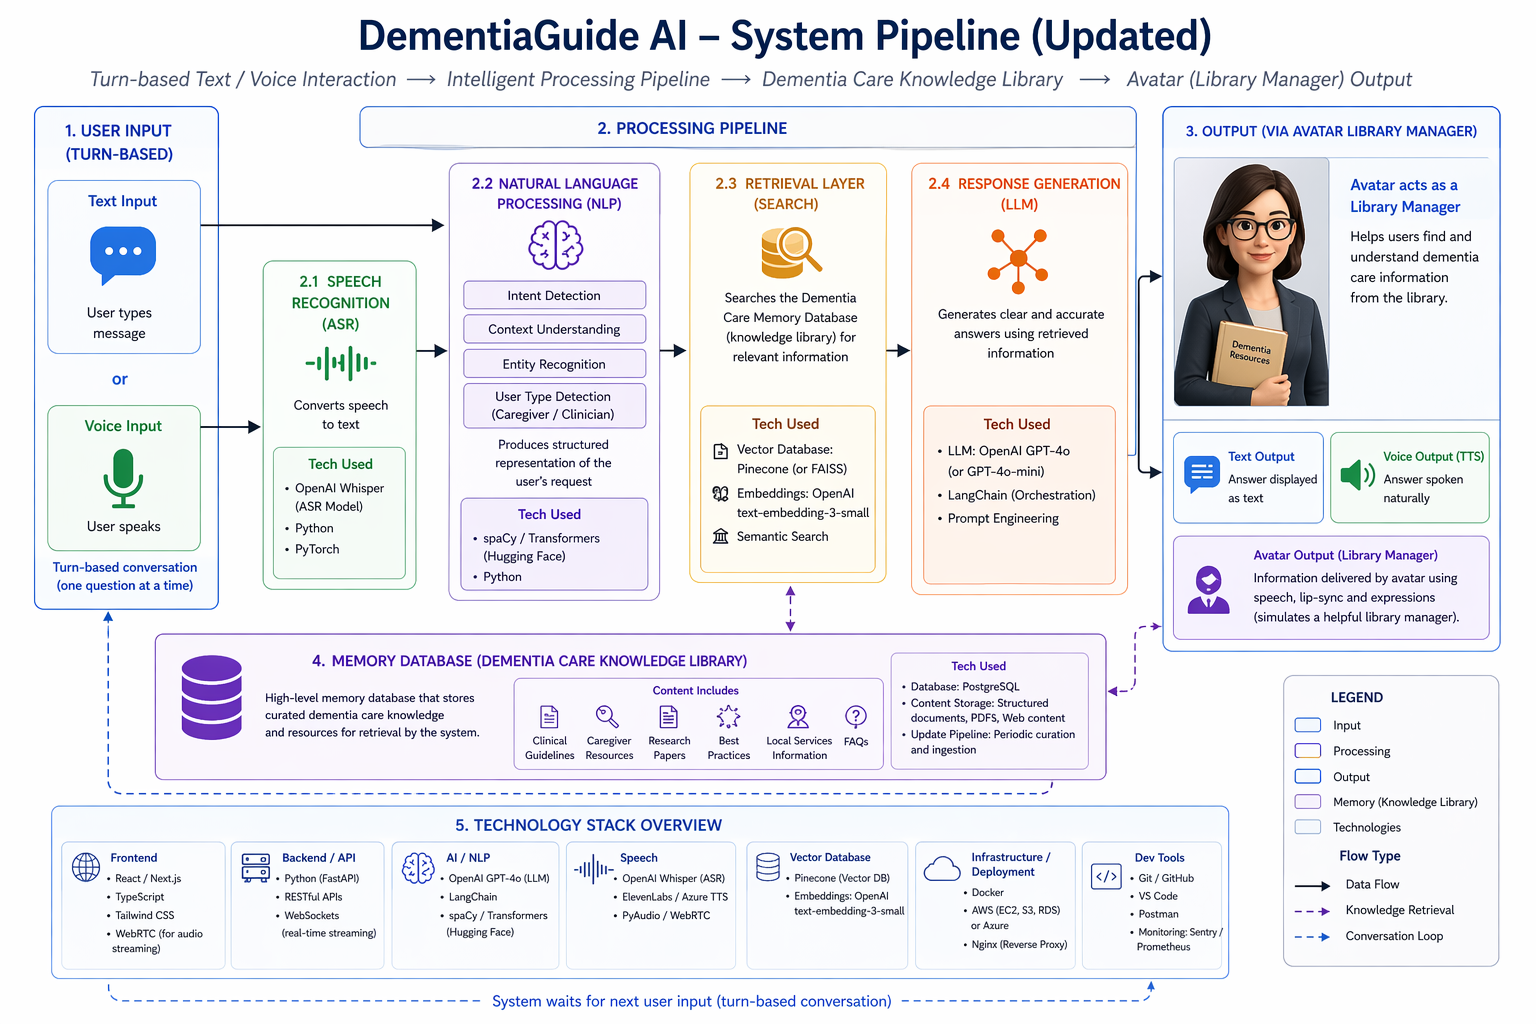
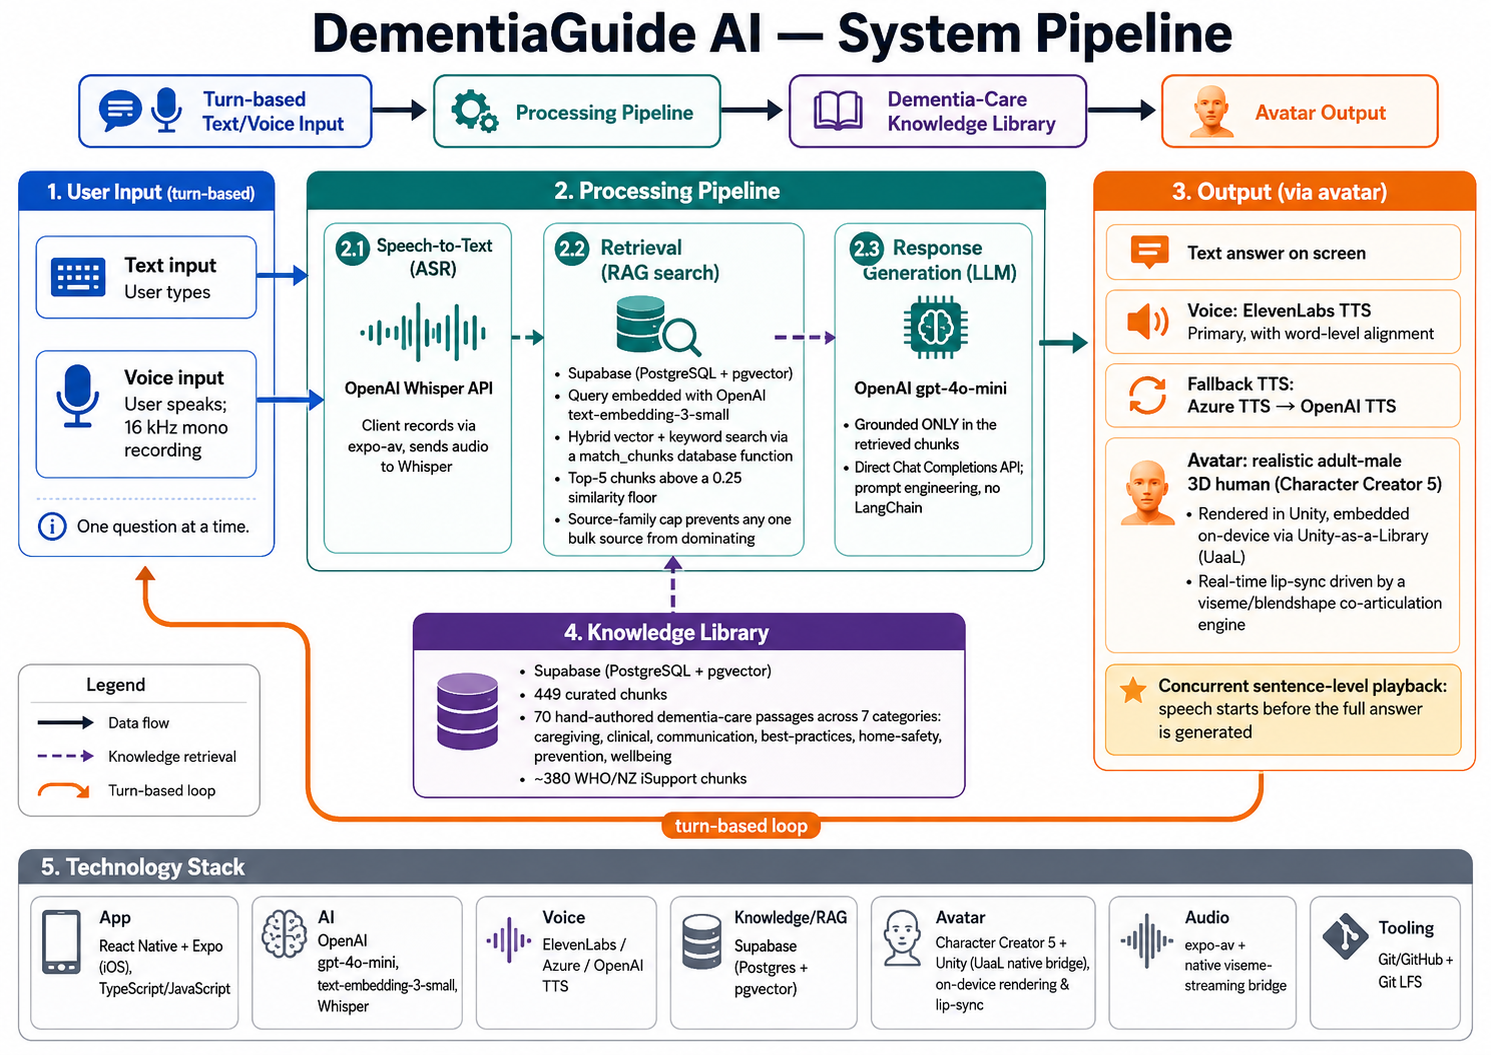
docs(readme): update system pipeline + RAG diagrams to current architecture
Replace the outdated workflow diagram (which showed Pinecone/FAISS, LangChain, a
Python/FastAPI backend and a spaCy NLP layer) with the accurate pipeline: OpenAI
Whisper ASR, Supabase (Postgres+pgvector) hybrid RAG, gpt-4o-mini generation,
ElevenLabs/Azure/OpenAI TTS, and a Character Creator 5 avatar in Unity (UaaL) on
React Native + Expo. Add the corrected RAG-flow diagram as a local asset (was a
GitHub-hosted image of the old on-device/AsyncStorage design).

diff --git a/README.md b/README.md
@@ -10,7 +10,7 @@ A modern iOS mobile application that acts as a digital library for dementia care
 
 ## RAG Pipeline Workflow
 
-<img width="1536" height="1024" alt="RAGPipeline" src="https://github.com/user-attachments/assets/a19212ea-bd53-41d7-bb79-c5fcdc1e44c0" />
+![RAG Pipeline](./assets/rag-pipeline.png)
 
 ---
 